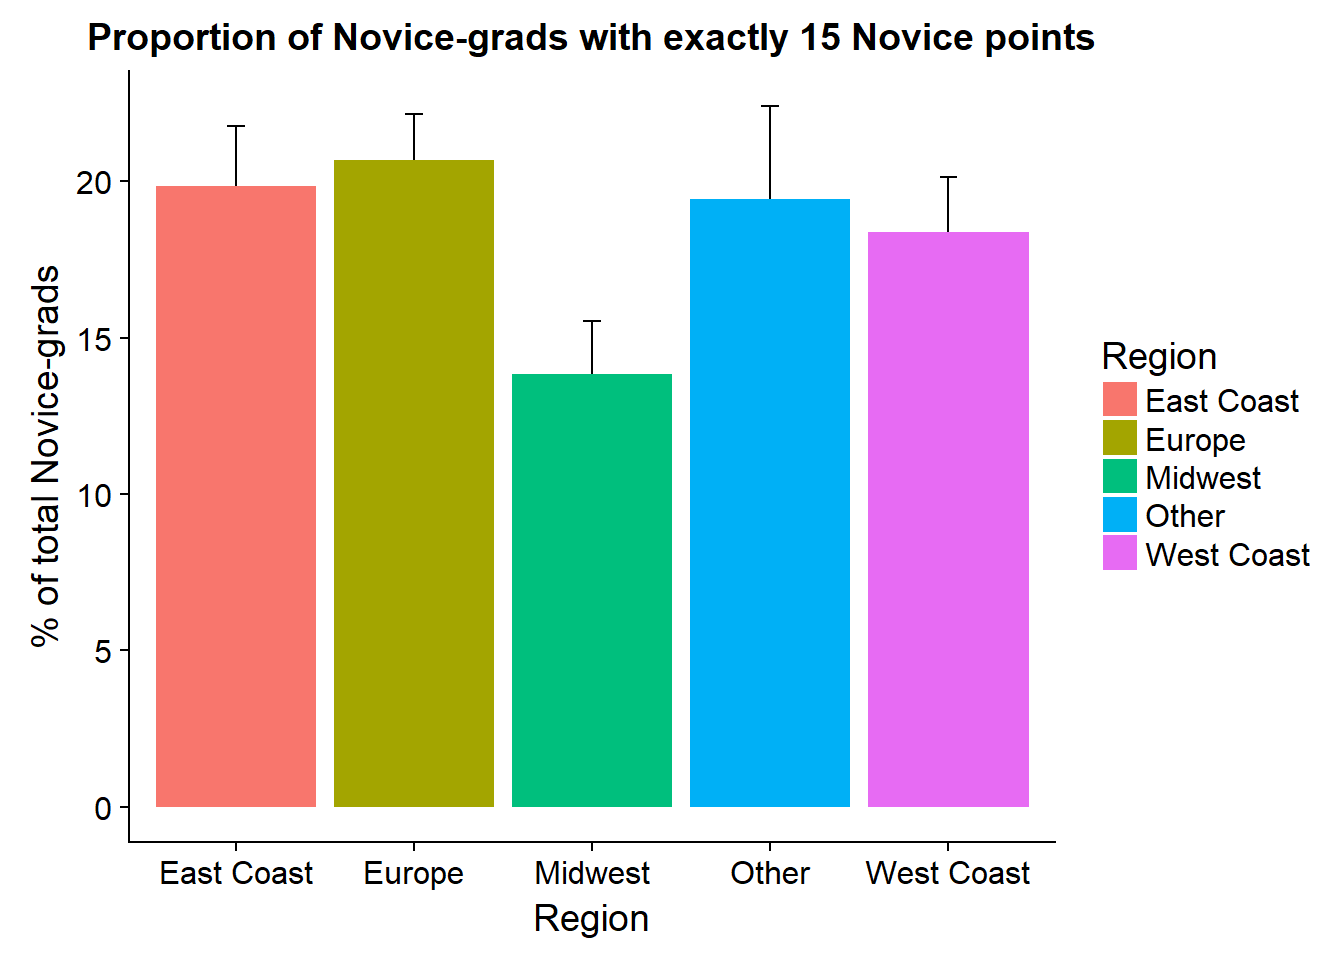
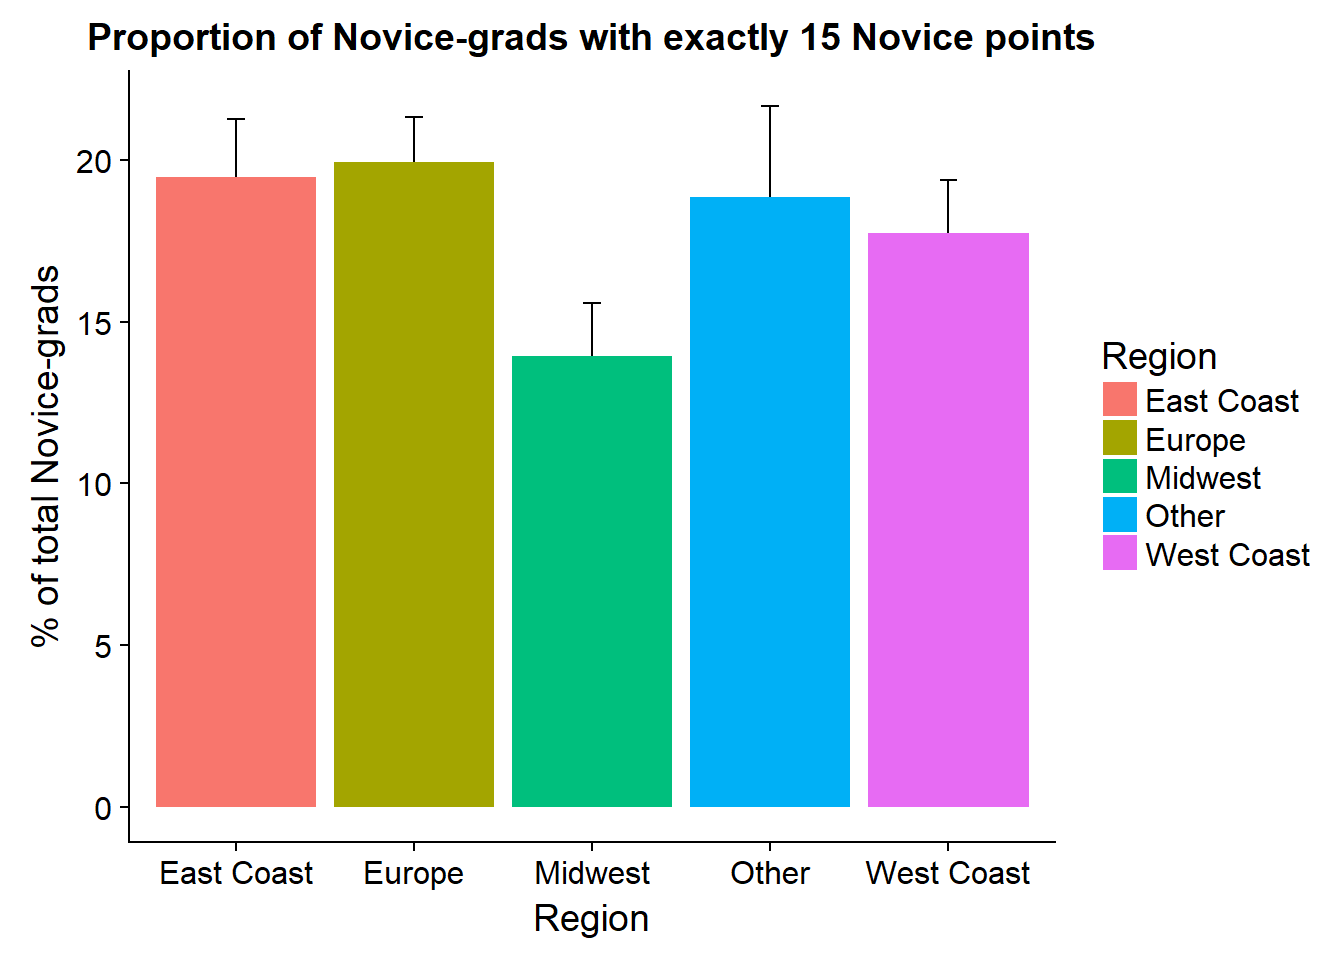
More revisions

diff --git a/_posts/2018-1-3-WSDC-Project-Part-1.md b/_posts/2018-1-3-WSDC-Project-Part-1.md
@@ -26,8 +26,13 @@ Intermediate points
 points and no Intermediate points
 3. When comparing those with 15 Novice points and those with more than 15 
 Novice points, the difference in how often they place 1st-5th at a tier 3 or 
-1st-3rd at a tier 2 in Intermediate is reduced. The p-value in the other region 
-is now 0.068. All regions still trend in the same direction as they did before.
+1st-3rd at a tier 2 in Intermediate is reduced. The p-value in the other 
+region is now 0.068. All regions still trend in the same direction as they did 
+before.
+4. When comparing those with 15 Novice points and those with more than 15 
+Novice points, the difference in how long it takes to get the first 
+Intermediate point is still as significant but reduced in magnitude -- only 
+one month now.
 
 It was also pointed out to me many times that Novices with 15 points currently 
 (that they earned prior to 2018) would be "grandfathered in" -- if you are one 
@@ -67,9 +72,9 @@ help, and skilltrade a dance lesson or something.
 
 ### **TL;DR**
 (AKA the part where I practice Tableau dashboarding -- try hovering and
-clicking on things! Sorry it loads slowly and also is not mobile-friendly. I tried really hard to fix it, I swear.)
+clicking on things! Still trying to figure out how to make it mobile friendly...)
 <iframe src="https://public.tableau.com/views/WSDCProjectPart1/TLDR?:embed=y&:display_count=yes&publish=yes&:toolbar=no&:showVizHome=no"
- width="810" height="1240" style="-webkit-transform:scale(0.7);-moz-transform-scale(0.7);" frameBorder="0"></iframe>
+ width="810" height="1240" frameBorder="0"></iframe>
 
 #### **West Coast Swing**
 ##### (A brief primer for anyone reading this who's not already familiar with West Coast Swing)
@@ -260,14 +265,14 @@ I also broke down results by region, to account for any variation there.
 ![672x480](https://conniewang3.github.io/assets/img/WSDC-part-1/nov_readiness_time-1.png)
 
     ##   15 Points  16+ Points     p-value 
-    ##     7.10        5.10        0.00339
+    ##     6.13        5.10        0.00152
 
 Because the medians of each region are comparable to each other, I
 decided to look at combined data from all the regions. Across regions,
 we find >99% confidence that dancers with exactly 15 Novice points **take
 longer on average to get their first Intermediate point**.
 
-On the other hand, the difference in medians is only about 2 months, so
+On the other hand, the difference in medians is only about 1 month, so
 how much does that really matter?
 
 \[Stats note: quick histograms of the data (not shown) revealed it's
@@ -277,35 +282,34 @@ nonparametric hypothesis testing\]
 ![672x480](https://conniewang3.github.io/assets/img/WSDC-part-1/nov_readiness_ratio-1.png)
 
     ## $`East Coast`
-    ## [1] 0.8208
+    ## [1] 0.8075362
     ## 
     ## $Europe
-    ## [1] 0.1490
+    ## [1] 0.09338434
     ## 
     ## $Midwest
-    ## [1] 0.8736
+    ## [1] 0.973868
     ## 
     ## $Other
-    ## [1] 0.0677
+    ## [1] 0.1248829
     ## 
     ## $`West Coast`
-    ## [1] 0.2218
+    ## [1] 0.68068
 
-Well, it looks like the low incidence of placing 1st-5th at a tier 3 or
-1st-3rd at a tier 2 has maybe come back to bite us -- this data is
-decidedly not as pretty.
+Well, it looks like the low incidence of placing 1st-5th at a tier 3 or 
+1st-3rd at a tier 2 has maybe come back to bite us -- this data is decidedly 
+not as pretty. Error bars aren't shown, but the quartiles are quite large.
 
-Significance testing by region, we see a 93% confidence that dancers in the 
-Other region (Asia/Australia/Brazil) with exactly 15 Novice points **place 
-less frequently in Intermediate**. The is also the trend in 3 of the other 
-4 regions (East Coast, Europe, Midwest), although the differences there
-are less significant.
+As a result, we don't find significant differences by this metric --
+we see a 91% confidence that dancers in Europe and 88% confidence in the Other 
+region (Asia/Australia/Brazil) that those with exactly 15 Novice points place 
+less frequently in Intermediate. 
 
-Combining the two metrics, there is some evidence that Novice dancers
-with exactly 15 points do slightly worse in Intermediate than those with
-more than 15 points. Although it's not a large difference, and changing
-the requirement from 15 to 16 points is unlikely to do much, this does
-justify the rule change somewhat.
+Regardless, combining the two metrics, there is some evidence that Novice 
+dancers with exactly 15 points do slightly worse in Intermediate than those 
+with more than 15 points. Although it's not a large difference, and changing 
+the requirement from 15 to 16 points is unlikely to do much, this does justify 
+the rule change somewhat.
 
 #### **Community growth in the US and overseas**
 One question that's come up in the discussions surrounding the rule
